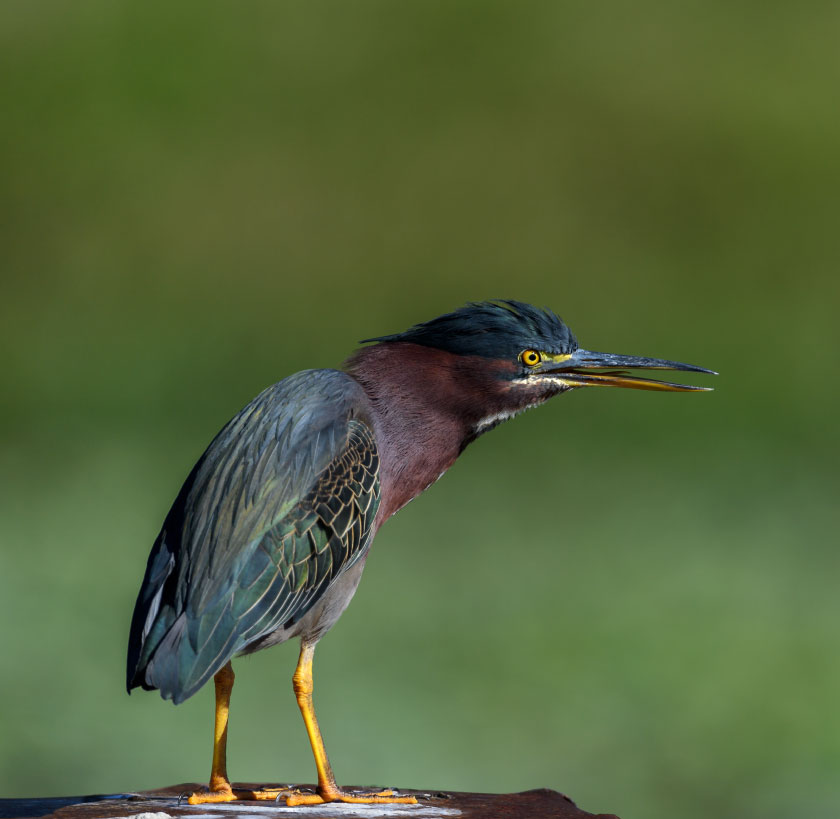
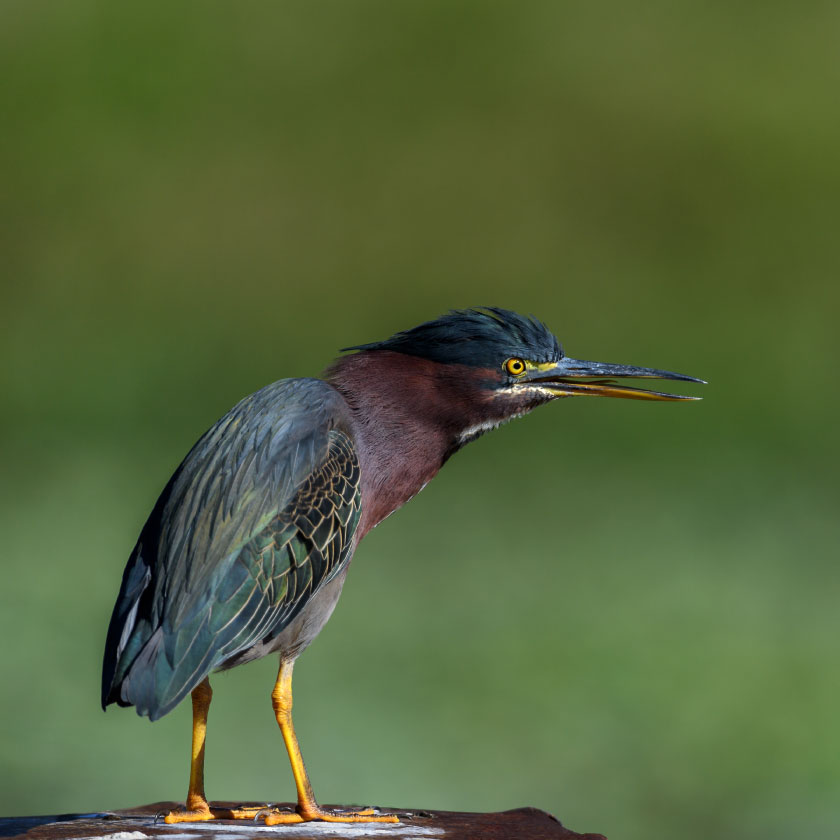
removed filler title, updated photos

Changed region(s): [[0.0, 0.3663, 0.8667, 1.0], [0.5881, 0.9463, 0.7429, 1.0]]

diff --git a/index.html b/index.html
@@ -143,7 +143,7 @@
       <div class="container">
           <div class="row justify-content-center">
               <div class="col-8 block">
-                  <h1 class="text-center">TITLE TEXT</h1>
+                  <h1 class="text-center"> </h1>
               </div>
           </div>
       </div>
